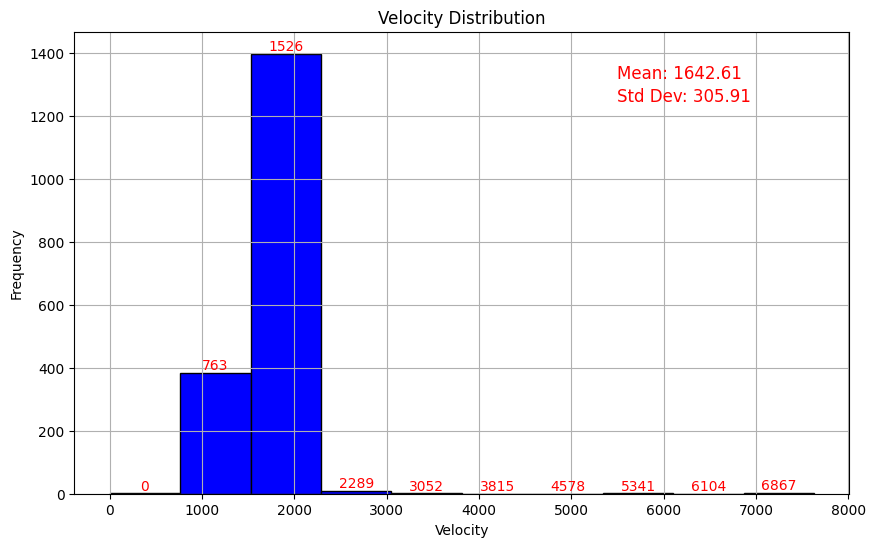
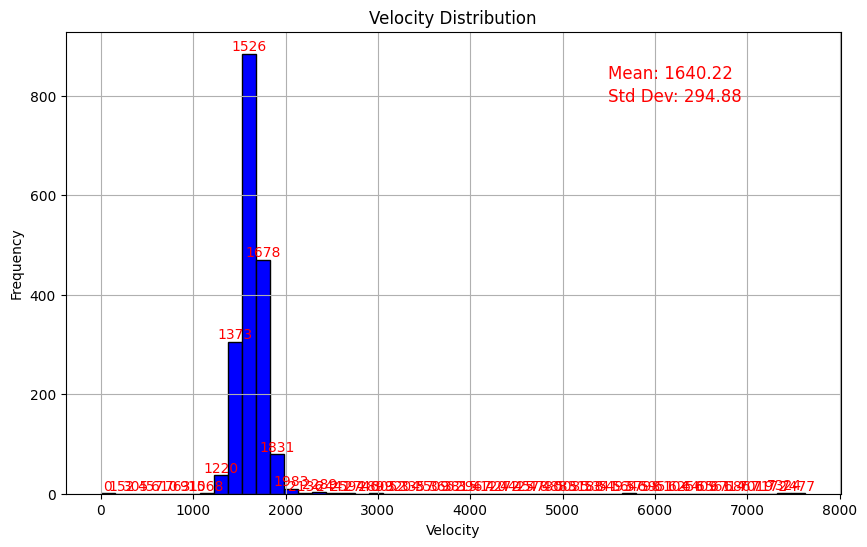
updated readme

diff --git a/README.md b/README.md
@@ -47,7 +47,7 @@ The script follows these steps to compute the speed of the conveyor belt:
 **Assumptions:** Features captured are mostly from the rocks because of the variablity nature across the image, and the rocks are assumed to be stationary when moving on conveyor. (i.e sufficient friction is expected to be present on the conveyor belt to avoid slipping).
 
 
-<b>Following is the graph between frequency and velocity distrbution (velocity printed on top of bars), we  can see that max count value to be <b>1526 mm/sec</b> which is close to true value of 1500 mm/sec.</b>
+<b>Following is the graph between frequency and velocity distrbution (velocity printed on top of bars), we can observe that max count edge value to be <b>1526 mm/sec</b> for 50 bins which is close to true value of 1500 mm/sec with IQR determined on a range of 100.</b>
 
 <br>
 
